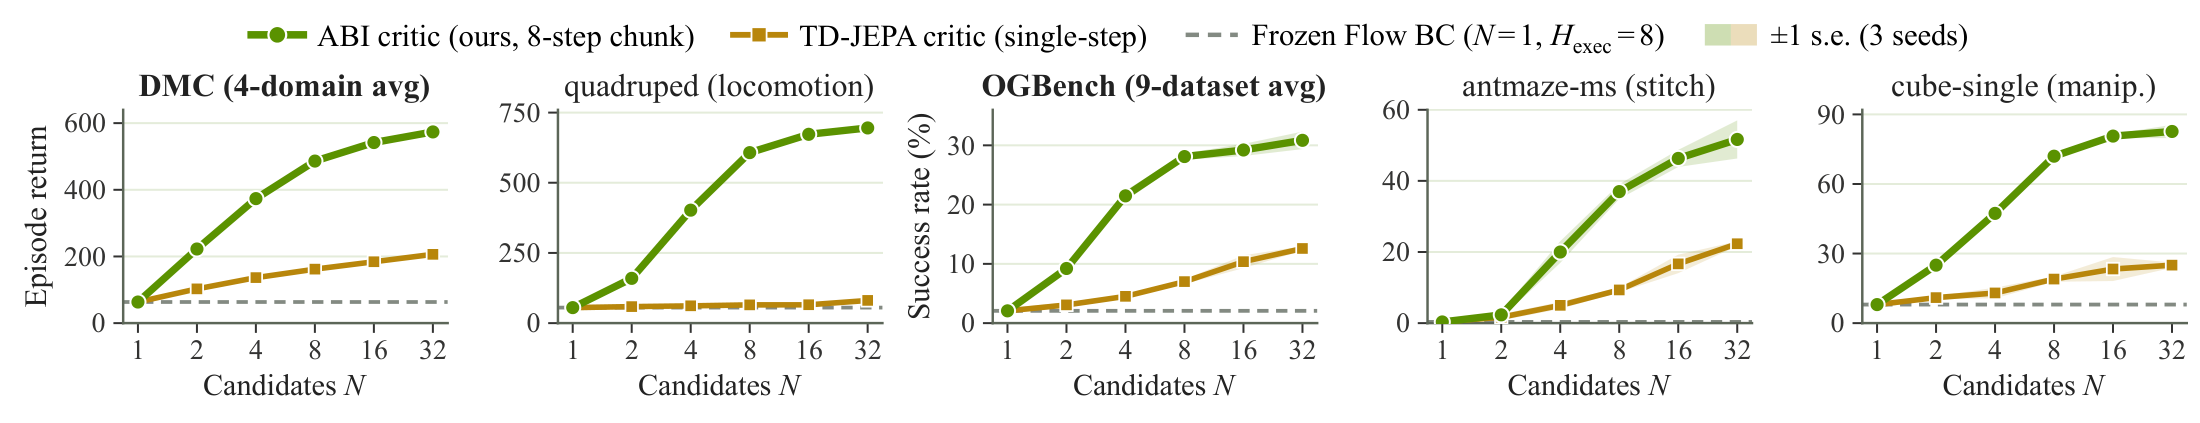
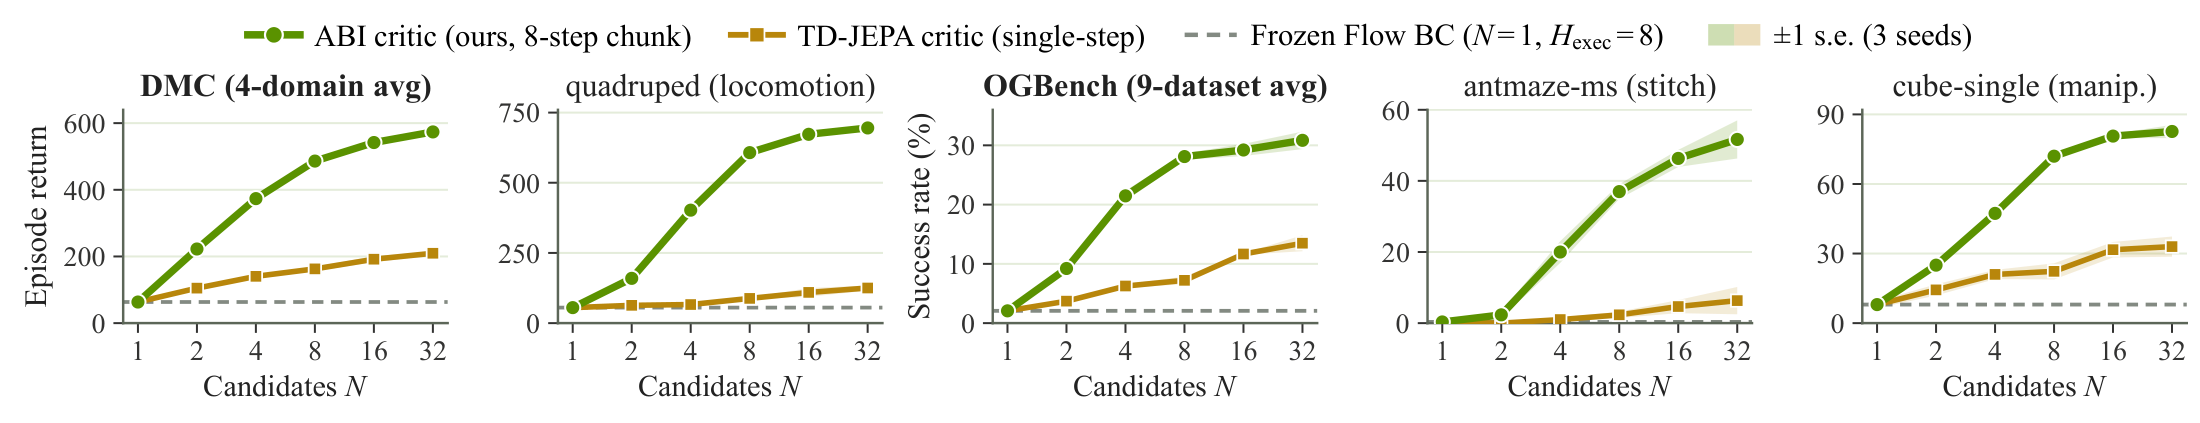
Project page: arXiv paper link, authors and BibTeX; Fig. 3 from the arXiv version

diff --git a/index.html b/index.html
@@ -6,6 +6,16 @@
 <title>ABI: Actor-Free Behavior-Induced Representations for Zero-Shot Test-Time Guidance</title>
 <meta name="description" content="ABI: actor-free behavior-induced representations for zero-shot test-time guidance. Project page with a video and an in-browser MuJoCo playground.">
 <link rel="icon" href="assets/abi_bear.svg" type="image/svg+xml">
+<meta name="citation_title" content="ABI: Actor-Free Behavior-Induced Representations for Zero-Shot Test-Time Guidance">
+<meta name="citation_author" content="Yao, Yifei">
+<meta name="citation_author" content="Zou, Yude">
+<meta name="citation_author" content="Jiao, Guanbo">
+<meta name="citation_author" content="Ma, Jianming">
+<meta name="citation_author" content="Gao, Xing">
+<meta name="citation_author" content="Shen, Chunhua">
+<meta name="citation_publication_date" content="2026/11/23">
+<meta name="citation_arxiv_id" content="2611.30636">
+<meta name="citation_pdf_url" content="https://arxiv.org/pdf/2611.30636">
 <style>
 :root {
   --bg: #fbfaf7; --surface: #ffffff; --text: #1d2330; --muted: #5d6677; --line: #e4e1d8; --accent: #4f8a10; --accent-2: #6aa81e;
@@ -39,6 +49,18 @@ code, .mono { font-family: ui-monospace, SFMono-Regular, Menlo, Consolas, monosp
 .hero h1 { margin: 0 auto; max-width: 900px; font-size: clamp(28px, 4.2vw, 44px); line-height: 1.15; letter-spacing: -.01em; font-weight: 750; }
 .hero h1 .abbr { color: var(--accent); }
 .hero .venue { margin-top: 14px; color: var(--muted); font-size: 16px; }
+.authors { margin: 18px auto 0; max-width: 860px; font-size: 18px; line-height: 1.5; }
+.authors .au { white-space: nowrap; margin: 0 9px; }
+.authors sup, .affils sup { font-size: .68em; color: var(--muted); margin-left: 1px; }
+.affils { margin: 6px auto 0; max-width: 1000px; color: var(--muted); font-size: 15px; line-height: 1.5; }
+.affils .af { white-space: nowrap; margin: 0 8px; }
+.affils .eq { display: block; margin-top: 2px; font-size: 14px; }
+.bib { position: relative; }
+.bib pre { margin: 0; padding: 16px 18px; background: var(--code); border: 1px solid var(--line); border-radius: 12px; overflow-x: auto;
+  font: 14px/1.55 ui-monospace, SFMono-Regular, Menlo, Consolas, monospace; color: var(--text); }
+.bib button { position: absolute; top: 10px; right: 10px; padding: 5px 12px; border-radius: 999px; border: 1px solid var(--line);
+  background: var(--surface); color: var(--text); font: 600 13px system-ui, sans-serif; cursor: pointer; }
+.bib button:hover { border-color: var(--accent); }
 .btns { display: flex; gap: 12px; justify-content: center; flex-wrap: wrap; margin-top: 26px; }
 .btn { display: inline-flex; align-items: center; gap: 8px; padding: 11px 20px; border-radius: 999px; text-decoration: none; font-weight: 650;
   font-size: 16px; border: 1px solid var(--line); color: var(--text); background: var(--surface); box-shadow: var(--shadow); }
@@ -89,6 +111,7 @@ footer { padding: 30px 0 50px; color: var(--muted); font-size: 14px; text-align:
   .hero { padding-top: 36px; }
   figure .img { padding: 6px; }
   .abstract p { text-align: left; }
+  .bib pre { padding-top: 46px; }
 }
 </style>
 </head>
@@ -96,10 +119,26 @@ footer { padding: 30px 0 50px; color: var(--muted); font-size: 14px; text-align:
 <header class="hero wrap">
   <img class="logo" src="assets/abi_bear.svg" alt="">
   <h1><span class="abbr">ABI</span>: Actor-Free Behavior-Induced Representations for Zero-Shot <span class="nw">Test-Time</span> Guidance</h1>
+  <div class="authors">
+    <span class="au">Yifei Yao<sup>1,*</sup></span>
+    <span class="au">Yude Zou<sup>2,*</sup></span>
+    <span class="au">Guanbo Jiao<sup>3,*</sup></span>
+    <span class="au">Jianming Ma<sup>2</sup></span>
+    <span class="au">Xing Gao<sup>1</sup></span>
+    <span class="au">Chunhua Shen<sup>4</sup></span>
+  </div>
+  <div class="affils">
+    <span class="af"><sup>1</sup>Shanghai Artificial Intelligence Laboratory</span>
+    <span class="af"><sup>2</sup>Shanghai Jiao Tong University</span>
+    <span class="af"><sup>3</sup>Fudan University</span>
+    <span class="af"><sup>4</sup>Zhejiang University</span>
+    <span class="eq"><sup>*</sup>Equal contribution</span>
+  </div>
   <div class="btns">
+    <a class="btn" href="https://arxiv.org/abs/2611.30636"><svg viewBox="0 0 24 24" fill="none" stroke="currentColor" stroke-width="2" stroke-linejoin="round" aria-hidden="true"><path d="M6 3h8l4 4v14H6z"/><path d="M14 3v4h4M9 12h6M9 16h6"/></svg>Paper</a>
     <a class="btn" href="#video"><svg viewBox="0 0 24 24" fill="currentColor" aria-hidden="true"><path d="M8 5v14l11-7z"/></svg>Video</a>
     <a class="btn primary" href="playground/"><svg viewBox="0 0 24 24" fill="none" stroke="currentColor" stroke-width="2" aria-hidden="true"><circle cx="12" cy="12" r="9"/><path d="M10 8.5l5 3.5-5 3.5z" fill="currentColor"/></svg>Open the playground</a>
-    <a class="btn" href="#abstract">Abstract</a>
+    <a class="btn" href="#citation">BibTeX</a>
   </div>
 </header>
 
@@ -155,6 +194,33 @@ footer { padding: 30px 0 50px; color: var(--muted); font-size: 14px; text-align:
   </figure>
 </section>
 
+<section class="wrap" id="citation">
+  <h2>Citation</h2>
+  <div class="bib">
+<pre id="bibtex">@article{yao2026abi,
+  title   = {{ABI}: Actor-Free Behavior-Induced Representations for Zero-Shot Test-Time Guidance},
+  author  = {Yao, Yifei and Zou, Yude and Jiao, Guanbo and Ma, Jianming and Gao, Xing and Shen, Chunhua},
+  journal = {arXiv preprint arXiv:2611.30636},
+  year    = {2026}
+}</pre>
+    <button type="button" id="copybib">Copy</button>
+  </div>
+</section>
+
 <footer class="wrap">The playground runs MuJoCo and all networks in your browser. Nothing is sent anywhere.</footer>
+<script>
+(function () {
+  var b = document.getElementById('copybib');
+  if (!b) return;
+  b.addEventListener('click', function () {
+    var t = document.getElementById('bibtex').textContent;
+    function done(ok) { b.textContent = ok ? 'Copied' : 'Select and copy'; setTimeout(function () { b.textContent = 'Copy'; }, 1600); }
+    try {
+      if (navigator.clipboard && window.isSecureContext) { navigator.clipboard.writeText(t).then(function () { done(true); }, function () { done(false); }); return; }
+    } catch (e) {}
+    try { var r = document.createRange(); r.selectNodeContents(document.getElementById('bibtex')); var sel = window.getSelection(); sel.removeAllRanges(); sel.addRange(r); done(document.execCommand('copy')); } catch (e) { done(false); }
+  });
+})();
+</script>
 </body>
 </html>

diff --git a/README.md b/README.md
@@ -1,5 +1,7 @@
 # ABI: Actor-Free Behavior-Induced Representations for Zero-Shot Test-Time Guidance
 
+Paper: [arXiv:2611.30636](https://arxiv.org/abs/2611.30636). Project page: <https://securitycfs.github.io/ABI-demo/>.
+
 Project page and interactive playground. `index.html` is the project page (abstract, video, figures).
 `playground/` is a fully local demo of ABI's critic guiding frozen policies in OGBench `cube-single-play`
 and `antmaze-medium-navigate` and in the DeepMind Control quadruped, cheetah and walker. Physics (MuJoCo,
@@ -143,3 +145,14 @@ to about 1e-7 relative.
 The QGF strengths of the five tasks are the ones selected on development episodes in the paper. For a
 goal you place yourself the slider value is used (Cube: the strength and gripper rule of the nearest
 task).
+
+## Citation
+
+```bibtex
+@article{yao2026abi,
+  title   = {{ABI}: Actor-Free Behavior-Induced Representations for Zero-Shot Test-Time Guidance},
+  author  = {Yao, Yifei and Zou, Yude and Jiao, Guanbo and Ma, Jianming and Gao, Xing and Shen, Chunhua},
+  journal = {arXiv preprint arXiv:2611.30636},
+  year    = {2026}
+}
+```
